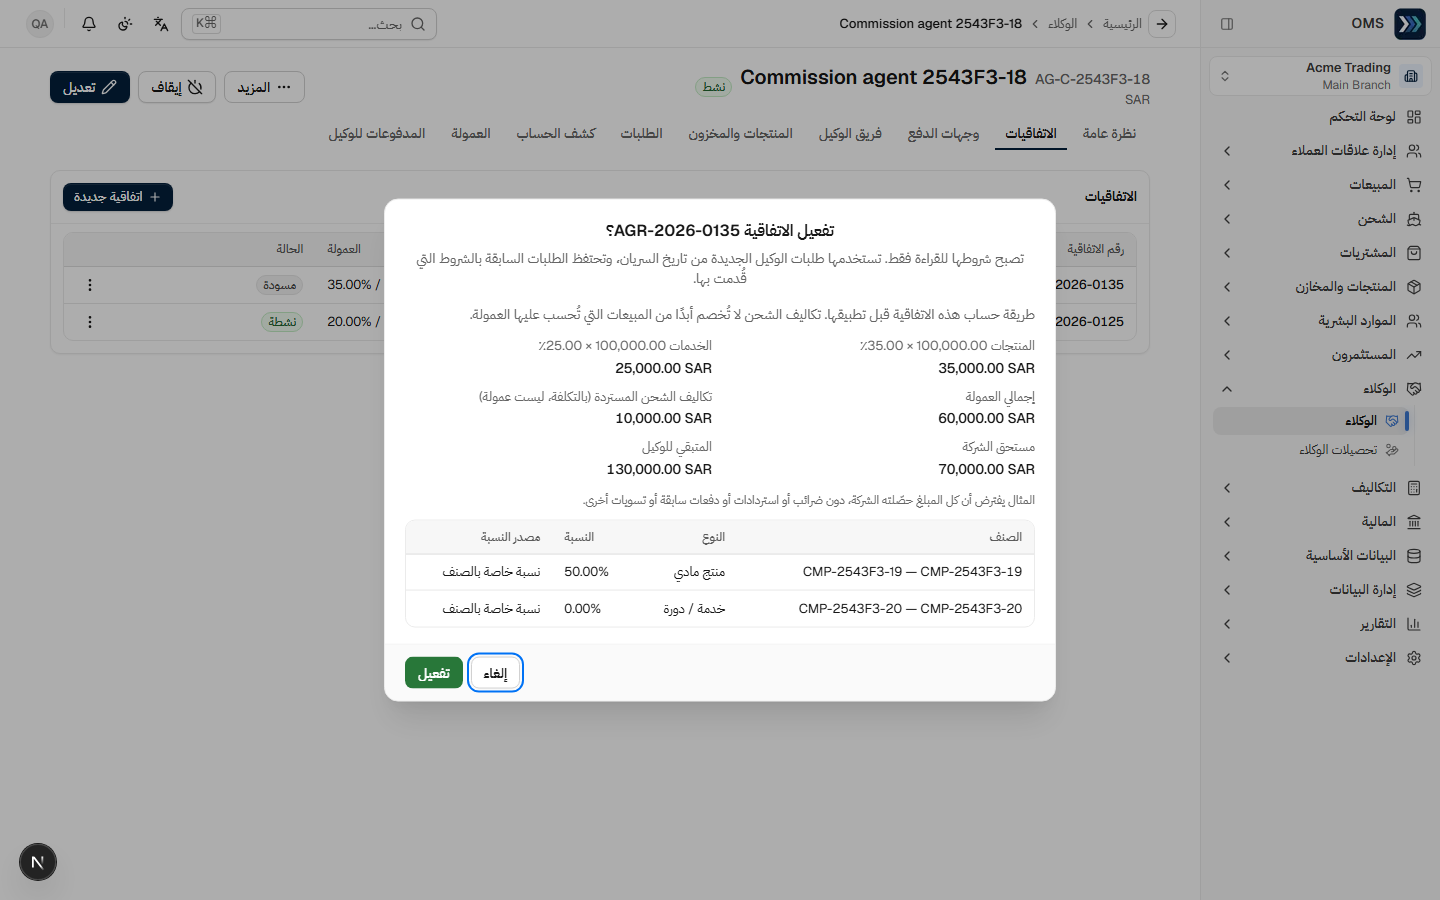
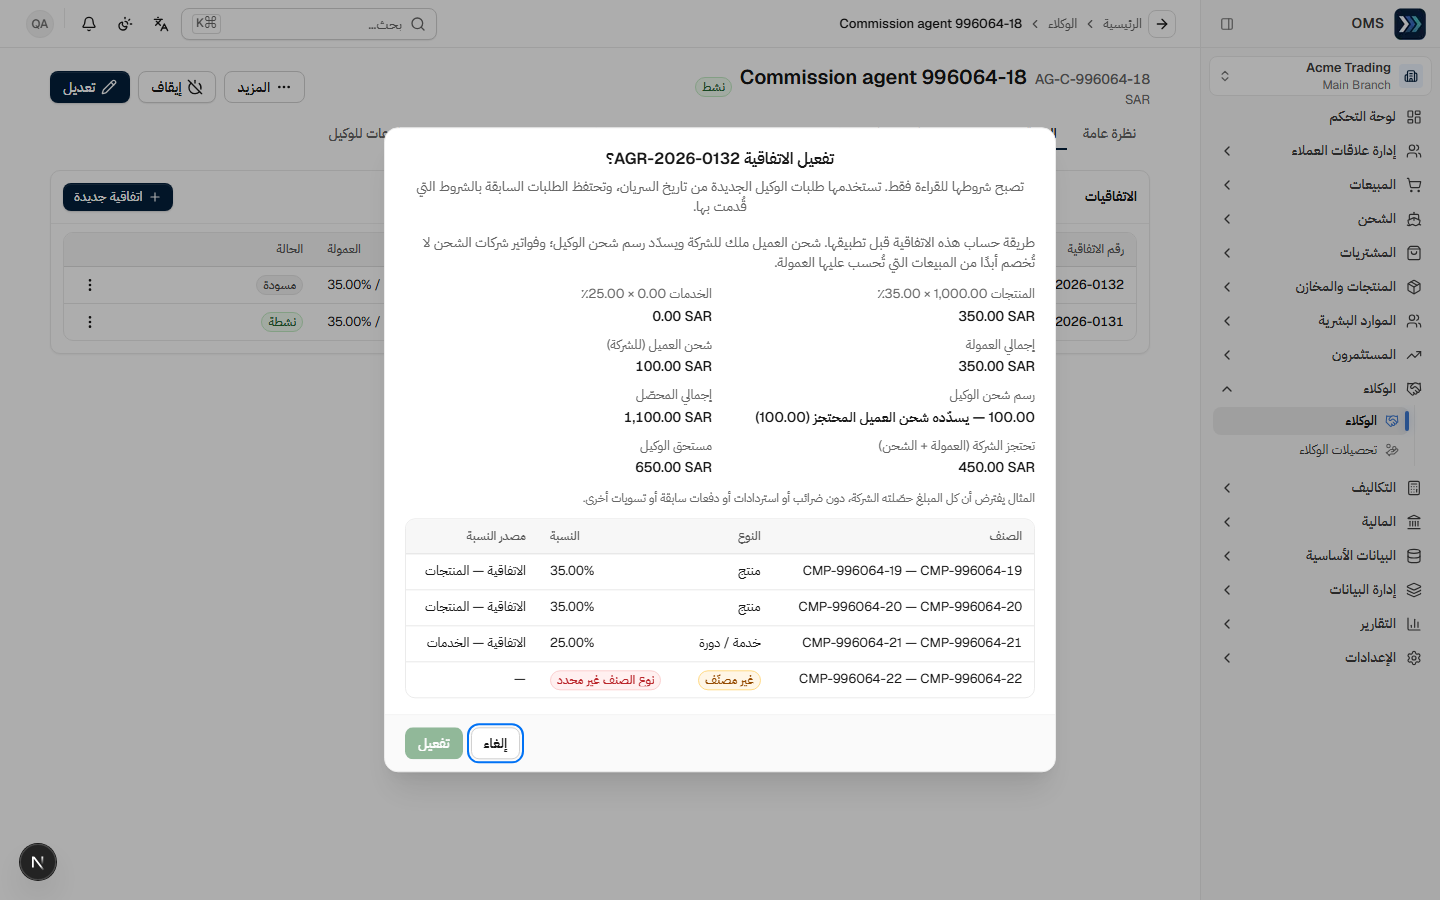
docs(agents): commission/shipping handoff and refreshed UI evidence

diff --git a/specs/agents-fulfillment-partners/handoff-commission.md b/specs/agents-fulfillment-partners/handoff-commission.md
@@ -1,0 +1,90 @@
+# تسليم — تصحيح عمولة الوكلاء والشحن (2026-09-29)
+
+**الحالة:** مُطبَّق ومُختبَر محليًا في commit واحد على الفرع `feat/agent-commission-policy`
+(المستودع `D:\Systems\OMS-commission`، فوق `78a90ab`). **لم يُنشر على الإنتاج بعد**: الدفع إلى
+`main` (الذي ينشر الإنتاج تلقائيًا) يحتاج موافقة المالك. تصميم لوحة التحكم الجديدة في فرع منفصل
+`feat/dashboard-redesign` بانتظار الموافقة البصرية ولن يُنشر قبلها.
+
+## 1. أين تُضبط النسب
+
+| ماذا                         | أين                                                                                                                                                                                        |
+| ---------------------------- | ------------------------------------------------------------------------------------------------------------------------------------------------------------------------------------------ |
+| نسبة المنتجات ونسبة الخدمات  | **الوكلاء** ← الوكيل ← **الاتفاقيات** ← اتفاقية جديدة: «نسبة المنتجات (%)» و«نسبة الخدمات والدورات (%)» + «رسم شحن الوكيل» + تاريخ السريان. قبل **تفعيل** تظهر معاينة الحساب ونسبة كل صنف. |
+| نوع الصنف (منتج / خدمة)      | **المنتجات** ← تعديل الصنف ← حقل «نوع الصنف» — مستقل عن تتبع المخزون؛ الدورات خدمات. قائمة المنتجات تُظهر «غير مصنّف» للمراجعة.                                                            |
+| نسبة خاصة بصنف (بما فيها 0٪) | نموذج الصنف ← قسم **العمولة** ← «مصدر العمولة» = نسبة خاصة، النسبة، «تسري من» (اليوم أو بعده)؛ «اتباع اتفاقية الوكيل» للعودة. السجل محفوظ ولا يُعدَّل بأثر رجعي.                           |
+
+ترتيب الحساب: النسبة الخاصة السارية ← نسبة نوع الصنف في الاتفاقية ← وإلا يُرفض الطلب (لا صفر
+ضمنيًا). النسبة ونوع الصنف ورسم الشحن تُحفظ في الطلب عند إرساله؛ تغيير الإعدادات لاحقًا لا يمس
+الطلبات السابقة.
+
+## 2. مثال 200,000 (العمولة)
+
+| البند                   | الحساب        | المبلغ     |
+| ----------------------- | ------------- | ---------- |
+| مبيعات المنتجات         |               | 100,000    |
+| مبيعات الخدمات          |               | 100,000    |
+| عمولة المنتجات          | 100,000 × 35٪ | 35,000     |
+| عمولة الخدمات           | 100,000 × 25٪ | 25,000     |
+| **إجمالي عمولة الشركة** |               | **60,000** |
+
+العمولة تُحسب لكل سطر بنسبته ثم تُجمع، على صافي مبيعات الصنف دون الضريبة والشحن ورسم الخدمة.
+**تكاليف شركات الشحن لا تُخصم أبدًا من أساس العمولة.** (اختبار قبول آلي على قاعدة بيانات حقيقية.)
+
+## 3. الشحن: شحن العميل مقابل رسم الوكيل مقابل تكلفة الناقل
+
+المثال المعتمد (دون ضريبة أو تسويات):
+
+| البند                                           | المبلغ  |
+| ----------------------------------------------- | ------- |
+| مبيعات المنتج                                   | 1,000   |
+| شحن العميل (ملك للشركة)                         | 100     |
+| إجمالي المحصّل                                  | 1,100   |
+| عمولة المنتج 35٪ — **عمولة الشركة**             | 350     |
+| رسم شحن الوكيل المحدد مسبقًا                    | 100     |
+| **الشحن المحتجز** (شحن العميل يسدّد رسم الوكيل) | 100     |
+| تحتجز الشركة إجمالًا                            | 450     |
+| **صافي مستحق الوكيل**                           | **650** |
+
+- رسم شحن الوكيل = سعر الشحن في الاتفاقية لوجهة الطلب (الاستلام من المقر والرقمي = 0)، ويُثبَّت
+  عند إرسال الطلب.
+- في كشف الوكيل قيدان فقط: «عمولة» 350 و«شحن العميل المحتجز» 100 (مع بيان أنه سدّد رسم الشحن 100).
+  **لا يُخصم 100 مرة ثانية.**
+- **تكلفة شركة الشحن الفعلية** (مثلًا فاتورة الناقل 60): مصروف شحن على الشركة ولربحية الطلب فقط.
+  فواتير الناقل (أساسية، إضافية لاحقة، إشعار دائن، «تم الدفع») **لا تُنشئ أي قيد على الوكيل**.
+  مثال: فاتورة 60 + إضافية 20 − إشعار دائن 10 ← مستحق الوكيل يبقى 650.
+- إن اختلف شحن العميل عن رسم الوكيل (تعديل يدوي) **يُرفض الطلب** ويُعرض المبلغان — معالجة الفرق
+  بانتظار قراركم (انظر §6).
+
+## 4. سجلات سابقة تحتاج تصحيحًا؟
+
+- **لا تعديل تلقائي لأي سجل.** الترحيل يُبقي كل اتفاقية قائمة كما هي تمامًا (نسبة الخدمات = نسبتها
+  الواحدة السابقة، وسياسة الشحن = «رسم ثابت لكل شحنة»). لم يُعَد حساب أي قيد أو ترحيل أو صرف.
+- الإنتاج يحتوي فقط وكلاء تجريبيين موسومين (`DEMO-AGT-20260928`)، وقيودهم معلّقة بقرار D1، أي لم
+  يُرحَّل منها شيء إلى الأستاذ العام.
+- للمراجعة: السكربت للقراءة فقط `apps/api/prisma/scripts/agent-commission-impact.ts`. يسرد كل طلب
+  مستحق بالتفسير القديم، وما كانت ستعطيه الشروط الجديدة، وفرق الشحن، والأصناف غير المصنّفة.
+- إن رغبتم في تطبيق الشروط الجديدة بأثر رجعي: تسوية مالية مسبّبة لكل طلب بالفرق، دون تعديل
+  القيد الأصلي.
+- تصنيف الأصناف الحالية: صنف نوعه «خدمة» صار خدمة، والصنف المخزني صار منتجًا، والباقي «غير مصنّف»
+  للمراجعة، ولا يُخمَّن.
+
+## 5. ما نُشر وما ينتظر
+
+| البند                                     | الحالة                                                                   |
+| ----------------------------------------- | ------------------------------------------------------------------------ |
+| تصحيح العمولة والشحن (commit واحد)        | جاهز ومُختبَر محليًا — **لم يُنشر**؛ الدفع إلى `main` ينتظر موافقتكم     |
+| التوقيت اليومي بتوقيت القاهرة لكشف الوكيل | متابعة صغيرة بعد نشر جلسة التقارير المالية لأداة التاريخ المشتركة        |
+| إعادة تصميم لوحة التحكم                   | فرع `feat/dashboard-redesign` — بانتظار الموافقة البصرية، لن يُنشر قبلها |
+
+الفحوص: TypeScript وESLint والبناء الإنتاجي (API والويب) ناجحة. اختبارات الـAPI: 1,664 ناجحًا من
+1,665، والفاشل الوحيد اختبار leads غير مستقر تحت الضغط ونجح عند تشغيله منفردًا. اختبارات قاعدة
+البيانات الحقيقية: 50/50. اختبارات الويب: 460 ناجحًا من 461، والفاشل الوحيد اختبار توقيت غير مستقر
+نجح منفردًا. مراجعة مالية مستقلة: كل ملاحظاتها أُصلحت. لقطات: `docs/user-guide/evidence/commission-20260929/`.
+
+## 6. أسئلة بانتظار قراركم
+
+1. **فرق الشحن:** إذا اختلف شحن العميل عن رسم الوكيل، من يتحمّل الفرق أو يستحقه؟ (أ) الوكيل
+   (ب) الشركة (ج) يُحتجز فقط بقدر رسم الوكيل. الوضع الحالي: يُرفض الطلب.
+2. **«نوع/خدمة الشحن»:** هل تكفي الوجهة (دولة/مدينة) + شحن/استلام، أم تختلف الأسعار حسب شركة
+   الشحن أو مستوى الخدمة؟
+3. **حسابات D1** ما زالت مطلوبة لترحيل قيود الوكلاء في الإنتاج.
